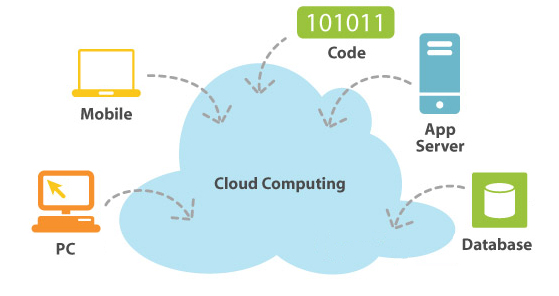
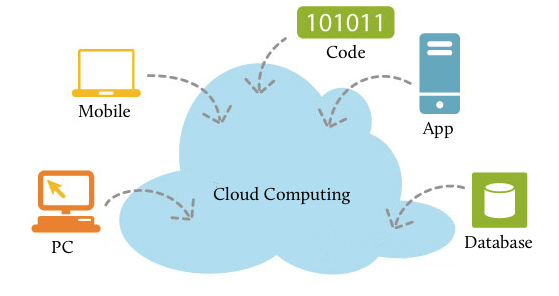
replace new images

diff --git a/02-Grundlagen.md b/02-Grundlagen.md
@@ -25,7 +25,7 @@ Im Oktober 2011 befanden sich über 400.000 Anwendungen<span class="fn"><a href=
 Die Cloud beschreibt die Abstraktion von IT Infrastruktur wie z.B. Rechenkapazität, Speicherbedarf oder auch Software. Diese können bei Bedarf und zur Verfügung gestellt werden.
 
 <div class="figure" id="cloud-computing-diagram">
-	<img src="http://up.frubar.net/1747/cloud_computing_diagram.jpg" alt="Cloud Computing Diagram" width="80%" />
+	<img src="http://up.frubar.net/1758/cloud_computing_diagram.jpg" alt="Cloud Computing Diagram" width="80%" />
 	<p>Elemente des Cloud-Computing</p>
 </div>
 
@@ -84,7 +84,7 @@ Bei Paravirtualisierung wird zwar ein Betriebssystem virtuell gestartet, jedoch 
 Durch die verschiedenen Virtualisierungstechnologien und Verfahren wird es den Entwickler nicht einfach gemacht Anwendungen zu entwerfen die mit allen Schnittstellen umgehen können. Libvirt bietet eine einheitliche Schnittstelle (API) um verschiedene Technologien wie Linux KVM<span class="fn"><a href="http://www.linux-kvm.org">Linux KVM</a></span>, Xen<span class="fn"><a href="http://www.xen.org">Xen</a></span> und VMware ESX<span class="fn"><a href="http://www.vmware.com">VMWare ESX</a></span> zu verwalten.
 
 <div class="figure" id="libvirt-schnittstelle">
-	<img src="http://up.frubar.net/1748/libvirtd.svg" alt="libvirt Schnittstelle" width="80%" />
+	<img src="http://up.frubar.net/1757/libvirtd.svg" alt="libvirt Schnittstelle" width="80%" />
 	<p>Einbindung libvirt Schnittstelle</p>
 </div>
 	
